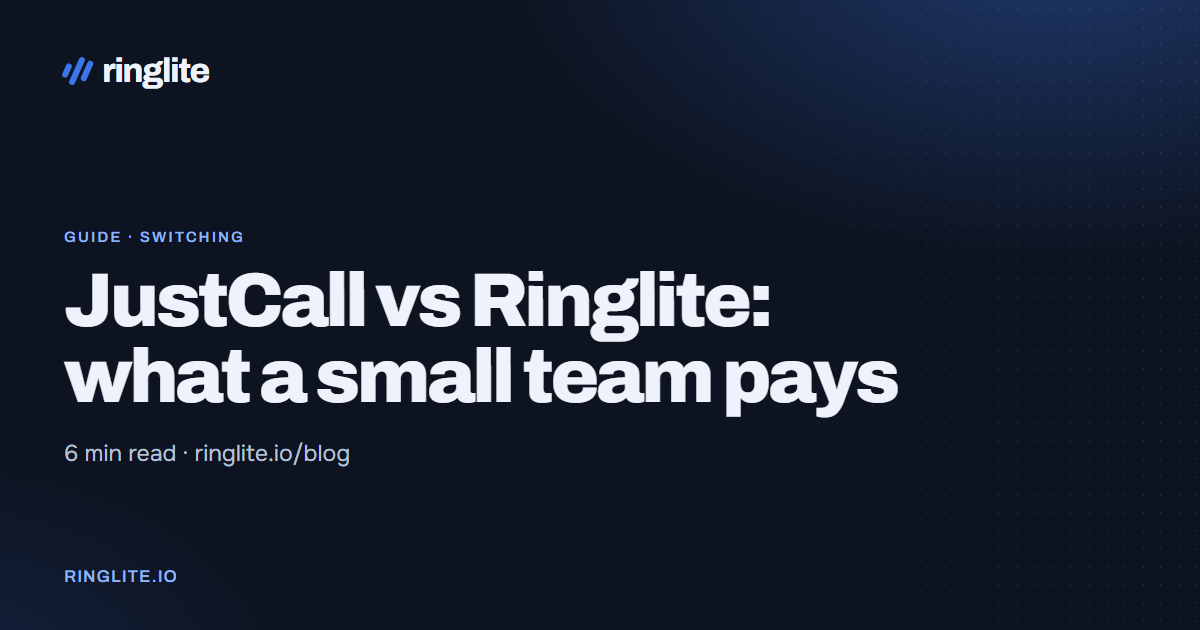
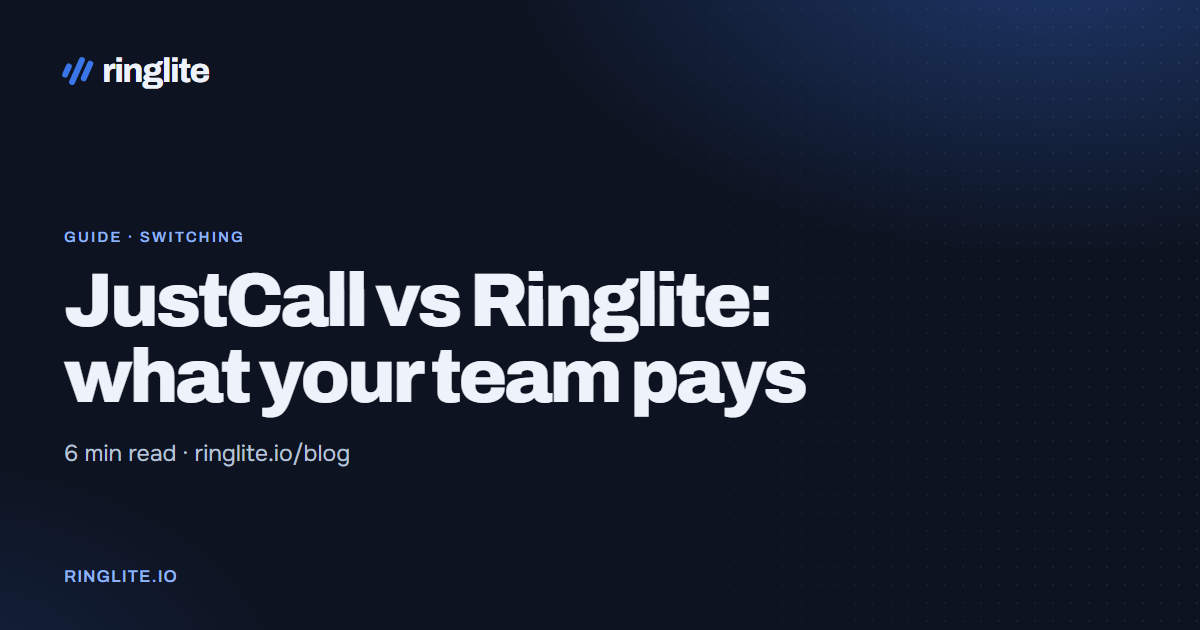
site: position Ringlite as the AI-ready phone for every team size
Replace the small-teams wording in titles, hero eyebrow, alternative and
pricing pages, guides index and social cards. Solutions menu label
'Small teams' becomes 'Growing teams' (slug unchanged).

Changed region(s): [[0.2158, 0.5429, 0.7708, 0.6635]]

diff --git a/frontend/src/pages/LandingPage.tsx b/frontend/src/pages/LandingPage.tsx
@@ -86,7 +86,7 @@ export function LandingPage() {
     <a className="rl-skip" href="#main">Skip to content</a>
     <SiteHeader />
     <main id="main">
-      <section className="rl-hero rl-hero-cost rl-wrap"><div className="rl-hero-copy"><p className="rl-eyebrow rl-enter"><span /> BUSINESS PHONE FOR SMALL TEAMS</p><h1 className="rl-enter">Your team.<br />Your numbers.<br /><span>One price.</span></h1><div className="rl-hero-bottom rl-enter"><p>Calls, texts and voicemail in one shared inbox. {team.name} is {money(team.price ?? 0)} a month for {team.included?.users} users, {team.included?.numbers} numbers and {(team.minutes ?? 0).toLocaleString("en-US")} call minutes. No fee per seat.</p><div className="rl-hero-links"><Link className="rl-button" to={cta}>Start with {team.name} <ArrowUpRight size={19} /></Link><Link className="rl-text-link" to="/calculator">See what your team would pay <ArrowRight size={16} /></Link></div><span className="rl-price-teaser">From <b>{money(starter.price ?? 0)}</b> / month <span>Bring your number on Team and Business</span></span></div></div>
+      <section className="rl-hero rl-hero-cost rl-wrap"><div className="rl-hero-copy"><p className="rl-eyebrow rl-enter"><span /> AI-READY BUSINESS PHONE FOR EVERY TEAM</p><h1 className="rl-enter">Your team.<br />Your numbers.<br /><span>One price.</span></h1><div className="rl-hero-bottom rl-enter"><p>Calls, texts and voicemail in one shared inbox. {team.name} is {money(team.price ?? 0)} a month for {team.included?.users} users, {team.included?.numbers} numbers and {(team.minutes ?? 0).toLocaleString("en-US")} call minutes. No fee per seat.</p><div className="rl-hero-links"><Link className="rl-button" to={cta}>Start with {team.name} <ArrowUpRight size={19} /></Link><Link className="rl-text-link" to="/calculator">See what your team would pay <ArrowRight size={16} /></Link></div><span className="rl-price-teaser">From <b>{money(starter.price ?? 0)}</b> / month <span>Bring your number on Team and Business</span></span></div></div>
         <HeroCost />
       </section>
       <div className="rl-ticker" aria-label="Calling, texting and teamwork"><span>NO FEE PER SEAT.</span><Mark /><span>ONE SHARED INBOX.</span><Mark /><span>REGISTERED TEXTING.</span><Mark /></div>

diff --git a/frontend/scripts/og-images.ts b/frontend/scripts/og-images.ts
@@ -105,11 +105,11 @@ h1 em{font-style:normal;color:#5B8FF0}
 }
 
 const cards: Card[] = [
-  { file: ogFileFor("/"), eyebrow: "Business phone for small teams", title: "Your team. Your numbers. <em>One price.</em>", sub: "Calls, texts and voicemail in one shared inbox. No fee per seat.", panel: { kind: "bars" } },
+  { file: ogFileFor("/"), eyebrow: "AI-ready business phone for every team", title: "Your team. Your numbers. <em>One price.</em>", sub: "Calls, texts and voicemail in one shared inbox. No fee per seat.", panel: { kind: "bars" } },
   { file: ogFileFor("/pricing"), eyebrow: "Pricing", title: "One price for your team <em>and your numbers.</em>", sub: "Starter $15, Team $45, Business $130 a month. Every rate published.", panel: { kind: "bars" } },
   { file: ogFileFor("/calculator"), eyebrow: "Cost calculator", title: "What does a phone system cost <em>for your team?</em>", sub: "Price your team on Ringlite and on per-seat tools, side by side.", panel: { kind: "bars" } },
-  { file: ogFileFor("/blog"), eyebrow: "Guides", title: "Guides for small teams <em>on the phone.</em>", sub: "Phone costs, 10DLC texting registration and switching providers." },
-  { file: ogFileFor("/__default"), eyebrow: "Business phone for small teams", title: "Calls, texts and voicemail. <em>One shared inbox.</em>", sub: "Local numbers, registered texting and your whole team on one price." },
+  { file: ogFileFor("/blog"), eyebrow: "Guides", title: "Guides for teams <em>on the phone.</em>", sub: "Phone costs, 10DLC texting registration and switching providers." },
+  { file: ogFileFor("/__default"), eyebrow: "AI-ready business phone for every team", title: "Calls, texts and voicemail. <em>One shared inbox.</em>", sub: "Local numbers, registered texting and your whole team on one price." },
   ...COMPETITORS.filter(c => COMPETITOR_SEAT_PRICES.some(p => p.slug === c.slug)).map(c => ({
     file: ogFileFor(`/compare/${c.slug}`), eyebrow: `${shortName(c.name)} alternative`,
     title: `Ringlite vs <em>${esc(shortName(c.name))}</em>`, sub: c.summary.split(". ")[1] ?? c.summary,

diff --git a/frontend/src/marketing/faq.ts b/frontend/src/marketing/faq.ts
@@ -112,7 +112,7 @@ export const FAQS: Faq[] = [
   { id: "report-abuse", topic: "Security and 911", q: "A Ringlite number called me and I don't know them.", a: "Report it at ringlite.io/report. We review every report.", keywords: ["report", "abuse", "harass", "unknown call", "spam call from"] },
 
   // Switching
-  { id: "vs-quo", topic: "Switching to Ringlite", q: "How is Ringlite different from Quo (OpenPhone)?", a: "Quo charges per user. Ringlite includes users and numbers in one monthly package and publishes its per-minute rate instead of \"unlimited\". For small teams that usually costs much less.", keywords: ["quo", "openphone", "open phone"] },
+  { id: "vs-quo", topic: "Switching to Ringlite", q: "How is Ringlite different from Quo (OpenPhone)?", a: "Quo charges per user. Ringlite includes users and numbers in one monthly package and publishes its per-minute rate instead of \"unlimited\". For most teams that costs much less.", keywords: ["quo", "openphone", "open phone"] },
   { id: "vs-ringcentral", topic: "Switching to Ringlite", q: "How is Ringlite different from RingCentral?", a: "RingCentral is built for large companies and sells through sales calls. Ringlite is self-serve, priced as simple packages with users and numbers included, and set up in under an hour.", keywords: ["ringcentral", "ring central"] },
   { id: "vs-callhippo", topic: "Switching to Ringlite", q: "How is Ringlite different from CallHippo or KrispCall?", a: "Both charge per user. Ringlite includes users and numbers in each plan for one monthly price and shows every rate up front.", keywords: ["callhippo", "call hippo", "krispcall", "krisp call"] },
   { id: "vs-aircall", topic: "Switching to Ringlite", q: "How is Ringlite different from Aircall?", a: "Aircall starts at three paid licenses. Ringlite starts at $15 a month for one user and one number.", keywords: ["aircall", "air call"] },

diff --git a/frontend/src/marketing/content.ts b/frontend/src/marketing/content.ts
@@ -212,7 +212,7 @@ export const SOLUTIONS: Solution[] = [
 
 export const TEAM_SOLUTIONS: { slug: string; icon: IconName; menu: string; menuHint: string }[] = [
   { slug: "solo", icon: "phone", menu: "Solo operators", menuHint: "A real business line" },
-  { slug: "small-teams", icon: "users", menu: "Small teams", menuHint: "3 users and 3 numbers included" },
+  { slug: "small-teams", icon: "users", menu: "Growing teams", menuHint: "3 users and 3 numbers included" },
   { slug: "sales", icon: "list", menu: "Sales teams", menuHint: "Dialer, texting, follow-ups" },
 ];
 
@@ -241,7 +241,7 @@ export const COMPETITORS: Competitor[] = [
   },
   {
     slug: "ringcentral", name: "RingCentral",
-    summary: "RingCentral is built for large companies. Ringlite is self-serve and priced for small teams.",
+    summary: "RingCentral is built for large companies. Ringlite is self-serve, with published prices for teams of any size.",
     rows: [
       { label: "How you pay", them: "Per user, bigger discounts through sales", us: "Packages, every price on the page" },
       { label: "Texting", them: "25 to 200 texts per user", us: "Texts at a published rate, no monthly cap" },

diff --git a/frontend/src/marketing/pages/AlternativePage.tsx b/frontend/src/marketing/pages/AlternativePage.tsx
@@ -31,10 +31,10 @@ export function AlternativePage() {
   const short = shortName(c.name);
 
   return (
-    <SitePage title={`${c.name} alternative for small teams`} description={`Looking for a ${short} alternative? ${c.summary}`}>
+    <SitePage title={`${c.name} alternative with one price per team`} description={`Looking for a ${short} alternative? ${c.summary}`}>
       <section className="ms-page-hero rl-wrap">
         <p className="rl-eyebrow"><span />ALTERNATIVE</p>
-        <h1 className="ms-h1">The {short} alternative priced for small teams</h1>
+        <h1 className="ms-h1">The {short} alternative priced per team, not per seat</h1>
         <p className="ms-lede">{c.summary}</p>
         <div className="ms-cta-row">
           <Link className="rl-button" to="/signbox">

diff --git a/frontend/src/marketing/pages/PricingPage.tsx b/frontend/src/marketing/pages/PricingPage.tsx
@@ -76,7 +76,7 @@ export function PricingPage() {
   };
 
   return (
-    <SitePage title="Business phone pricing for small teams" description="Simple plans with your team and phone numbers included. Pay monthly, or yearly and get two months free.">
+    <SitePage title="Business phone pricing for teams of any size" description="Simple plans with your team and phone numbers included. Pay monthly, or yearly and get two months free.">
       <section className="ms-page-hero ms-pricing-hero rl-wrap">
         <p className="rl-eyebrow"><span /> PRICING</p>
         <h1 className="ms-h1">Your team and your numbers. <span>One simple price.</span></h1>

diff --git a/frontend/index.html b/frontend/index.html
@@ -3,7 +3,7 @@
   <head>
     <meta charset="UTF-8" />
     <meta name="viewport" content="width=device-width, initial-scale=1.0" />
-    <title>Business Phone System for Small Teams | Ringlite</title>
+    <title>AI-Ready Business Phone System for Every Team | Ringlite</title>
     <meta name="description" content="Calls, texts and voicemail in one shared inbox, with one price for your team and numbers. Team is $45/month for 3 users, 3 numbers and 200 call minutes. No fee per seat." />
     <meta property="og:site_name" content="Ringlite" />
     <meta name="theme-color" content="#3B76E8" />

diff --git a/frontend/src/marketing/pageMeta.ts b/frontend/src/marketing/pageMeta.ts
@@ -19,7 +19,7 @@ export function useReportPageMeta(meta: PageMeta): void {
 
 /** The homepage's title and description; index.html carries the same pair for the bare shell. */
 export const HOME_META: PageMeta = {
-  title: "Business Phone System for Small Teams | Ringlite",
+  title: "AI-Ready Business Phone System for Every Team | Ringlite",
   description:
     "Calls, texts and voicemail in one shared inbox, with one price for your team and numbers. Team is $45/month for 3 users, 3 numbers and 200 call minutes. No fee per seat.",
 };

diff --git a/frontend/src/marketing/pages/BlogIndexPage.tsx b/frontend/src/marketing/pages/BlogIndexPage.tsx
@@ -17,7 +17,7 @@ export function BlogIndexPage() {
     >
       <section className="ms-page-hero rl-wrap">
         <p className="rl-eyebrow"><span />GUIDES</p>
-        <h1 className="ms-h1">Guides for small teams on the phone</h1>
+        <h1 className="ms-h1">Guides for teams on the phone</h1>
         <p className="ms-lede">
           Plain write-ups on what business phone service costs, how 10DLC texting registration
           works, and what switching providers takes. Written for teams that do not have someone

diff --git a/frontend/src/marketing/blog/posts.ts b/frontend/src/marketing/blog/posts.ts
@@ -526,7 +526,7 @@ function comparisonPost(slug: (typeof COMPARE_SLUGS)[number]): Post {
 
   return {
     slug: `${slug}-vs-ringlite-cost`,
-    title: `${c.name} vs Ringlite: what a small team pays`,
+    title: `${c.name} vs Ringlite: what your team pays`,
     description: `${short} vs Ringlite for teams of 3 to 15: monthly and yearly list prices side by side, where each one is cheaper, and how switching works.`,
     published: "2026-10-03",
     topic: "Switching",

diff --git a/frontend/src/marketing/blog/blog.test.tsx b/frontend/src/marketing/blog/blog.test.tsx
@@ -71,7 +71,7 @@ describe("Blog", () => {
 
   it("sends an unknown slug back to the index", () => {
     open("/blog/nope");
-    expect(screen.getByRole("heading", { level: 1 })).toHaveTextContent("Guides for small teams on the phone");
+    expect(screen.getByRole("heading", { level: 1 })).toHaveTextContent("Guides for teams on the phone");
   });
 
   it("keeps post metadata sane", () => {

diff --git a/frontend/src/marketing/pages/ProductPage.tsx b/frontend/src/marketing/pages/ProductPage.tsx
@@ -81,7 +81,7 @@ export function ProductPage() {
     .slice(0, 3);
 
   return (
-    <SitePage title={`${product.menu} for small business`} description={product.lede}>
+    <SitePage title={`${product.menu} for business teams`} description={product.lede}>
       <section className="ms-page-hero ms-split rl-wrap">
         <div>
           <p className="rl-eyebrow">
